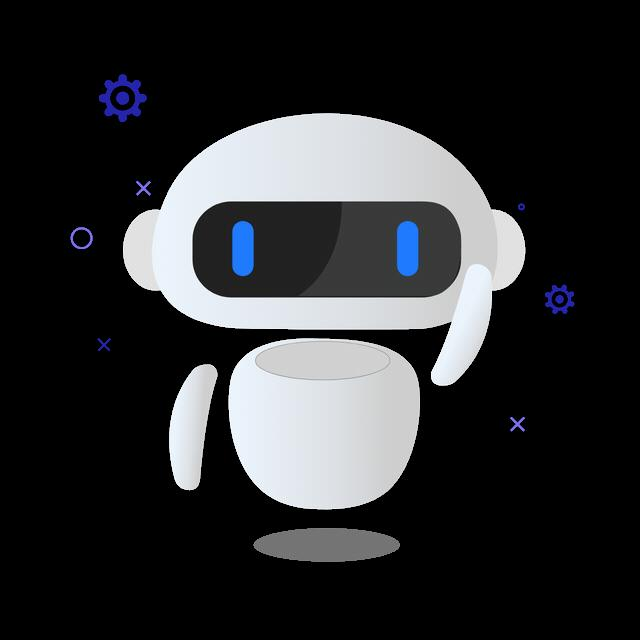
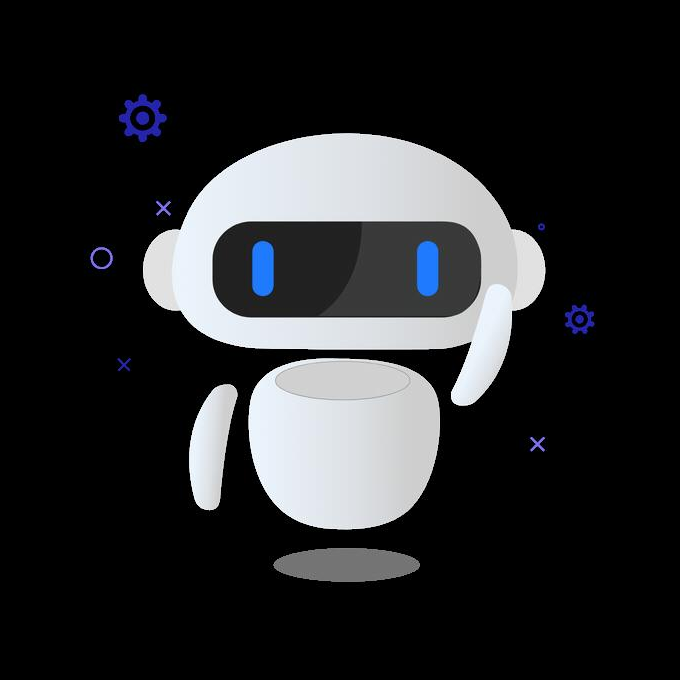
Add files via upload

diff --git a/admin.html b/admin.html
@@ -16,7 +16,7 @@ function normalizeOptions(){data.mainOptions=Array.isArray(data.mainOptions)?dat
  ['match','Ludo Matches','🎮','Ludo Matches system-এর content এখানে Auto Show হবে।'],['deposit','Deposit','💳','Deposit system-এর content এখানে Auto Show হবে।'],['statement','My Statement','🏷','My Statement system-এর content এখানে Auto Show হবে।'],['withdraw','Withdraw','💰','Withdraw system-এর content এখানে Auto Show হবে।'],['support','Support','✅','Support system-এর content এখানে Auto Show হবে।'],['mymatch','My Match','🎮','My Match system-এর content এখানে Auto Show হবে।'],['notifications','Notifications','🔔','Notifications system-এর content এখানে Auto Show হবে।'],['referral','Referral','🔗','Referral system-এর content এখানে Auto Show হবে।'],['leaderboard','Leaderboard','🏆','Leaderboard system-এর content এখানে Auto Show হবে।']
 ];let changed=false;wanted.forEach((w,i)=>{if(!data.mainOptions.some(x=>x.id===w[0])){data.mainOptions.push({id:w[0],name:w[1],icon:w[2],logo:'',content:w[3],visible:true,order:i+1,short_name:'',button_text:'',action:'auto',background:'#092d21',text_color:'#ffffff',border_radius:12});changed=true}});data.mainOptions=data.mainOptions.map((x,i)=>x.id==='match'&&(!x.name||x.name==='Match')?{...x,name:'Ludo Matches',content:x.content||'Ludo Matches system-এর content এখানে Auto Show হবে।',visible:x.visible!==false,order:Number(x.order||i+1)}:{...x,visible:x.visible!==false,order:Number(x.order||i+1)}).sort((a,b)=>a.order-b.order);if(changed)saveData(false)}
 async function saveData(show=true){const j=await api('/api/admin/data',{method:'PUT',body:JSON.stringify({mainOptions:data.mainOptions,site:data.site,system:data.system,paymentMethods:data.paymentMethods})});data=j.data||data;data.paymentMethods=Array.isArray(data.paymentMethods)?data.paymentMethods:[];if(show)toast('Saved — Main Page Live')}
-function render(){root.innerHTML='<div class="app"><header class="topbar"><div class="brand"><button class="menu-mobile" id="mm" onclick="toggleMenu()">☰</button><img src="'+esc(data.site?.logo||'logo-ludo-baji.jpg')+'"><strong>'+esc(data.site?.name||'Ludo Baji')+'</strong></div><div class="top-actions"><span class="online who">● Online</span><span class="who">Admin</span><div class="avatar">👤</div><button class="btn red" onclick="logout()">Logout</button></div></header><div class="shell"><aside class="sidebar" id="side"><div class="nav-title">Control</div><nav class="nav"><button class="'+(active==='dashboard'?'active':'')+'" onclick="select(\'dashboard\')"><span class="ico">📊</span>Dashboard</button><button class="'+(active==='main'?'active':'')+'" onclick="select(\'main\')"><span class="ico">🏠</span>Main Page</button><button class="'+(active==='users'?'active':'')+'" onclick="select(\'users\')"><span class="ico">👥</span>User Management</button><button class="'+(active==='payments'?'active':'')+'" onclick="select(\'payments\')"><span class="ico">💳</span>Deposit Management</button><button class="'+(active==='withdrawals'?'active':'')+'" onclick="select(\'withdrawals\')"><span class="ico">💰</span>Withdrawal Management</button><button class="'+(active==='matches'?'active':'')+'" onclick="select(\'matches\')"><span class="ico">🎮</span>Match Management</button><button class="'+(active==='reports'?'active':'')+'" onclick="select(\'reports\')"><span class="ico">📈</span>Reports</button><button class="'+(active==='support'?'active':'')+'" onclick="select(\'support\')"><span class="ico">💬</span>Support</button><button class="'+(active==='website'?'active':'')+'" onclick="select(\'website\')"><span class="ico">🌐</span>Website Tools</button><button class="'+(active==='settings'?'active':'')+'" onclick="select(\'settings\')"><span class="ico">⚙</span>Settings</button></nav><div class="side-status"><b>System Status</b><div class="online" style="margin-top:8px">● Online</div><small class="muted">Changes are live after Save.</small></div></aside><main class="content"><div class="screen" id="screen"></div></main></div></div>';select(active)}
+function render(){root.innerHTML='<div class="app"><header class="topbar"><div class="brand"><button class="menu-mobile" id="mm" onclick="toggleMenu()">☰</button><img src="'+esc(data.site?.logo||'logo-ludo-baji.jpg')+'"><strong>'+esc(data.site?.name||'Ludo Baji')+'</strong></div><div class="top-actions"><span class="online who">● Online</span><span class="who">Admin</span><div class="avatar">👤</div><button class="btn red" onclick="logout()">Logout</button></div></header><div class="shell"><aside class="sidebar" id="side"><div class="nav-title">Control</div><nav class="nav"><button class="'+(active==='dashboard'?'active':'')+'" onclick="select(\'dashboard\')"><span class="ico">📊</span>Dashboard</button><button class="'+(active==='main'?'active':'')+'" onclick="select(\'main\')"><span class="ico">🏠</span>Main Page</button><button class="'+(active==='users'?'active':'')+'" onclick="select(\'users\')"><span class="ico">👥</span>User Management</button><button class="'+(active==='payments'?'active':'')+'" onclick="select(\'payments\')"><span class="ico">💳</span>Deposit Management</button><button class="'+(active==='withdrawals'?'active':'')+'" onclick="select(\'withdrawals\')"><span class="ico">💰</span>Withdrawal Management</button><button class="'+(active==='matches'?'active':'')+'" onclick="select(\'matches\')"><span class="ico">🎮</span>Match Management</button><button class="'+(active==='reports'?'active':'')+'" onclick="select(\'reports\')"><span class="ico">📈</span>Reports</button><button class="'+(active==='support'?'active':'')+'" onclick="select(\'support\')"><span class="ico">💬</span>Support</button><button class="'+(active==='chatbox'?'active':'')+'" onclick="select(\'chatbox\')"><span class="ico">🤖</span>Chatbox Management</button><button class="'+(active==='help-links'?'active':'')+'" onclick="select(\'help-links\')"><span class="ico">ℹ</span>Help Information</button><button class="'+(active==='website'?'active':'')+'" onclick="select(\'website\')"><span class="ico">🌐</span>Website Tools</button><button class="'+(active==='settings'?'active':'')+'" onclick="select(\'settings\')"><span class="ico">⚙</span>Settings</button></nav><div class="side-status"><b>System Status</b><div class="online" style="margin-top:8px">● Online</div><small class="muted">Changes are live after Save.</small></div></aside><main class="content"><div class="screen" id="screen"></div></main></div></div>';select(active)}
 function toggleMenu(){document.getElementById('side')?.classList.toggle('open')}
 
 
